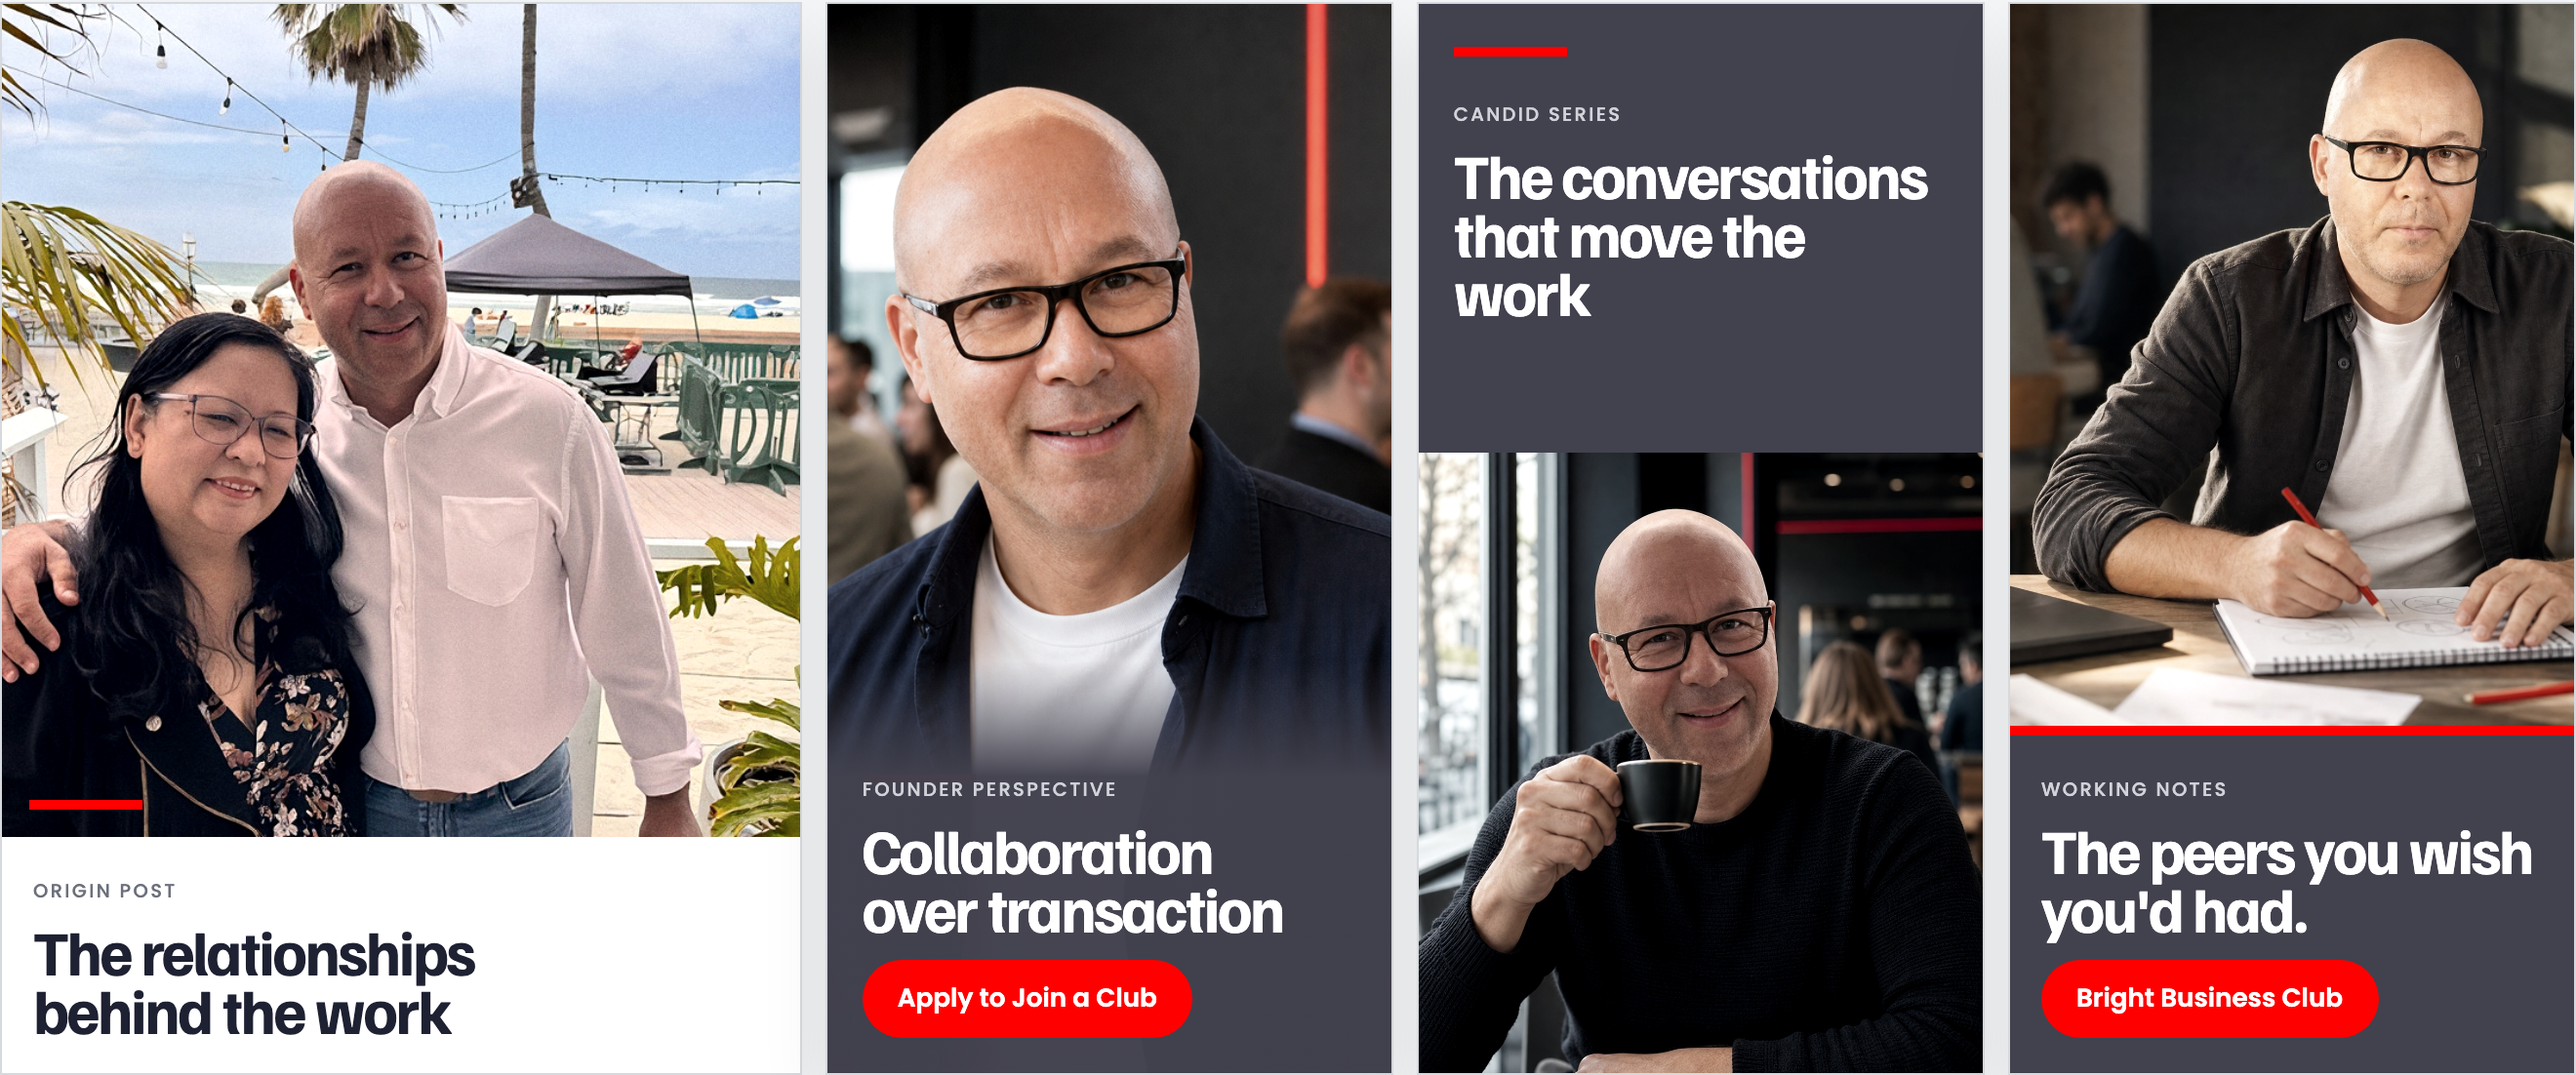
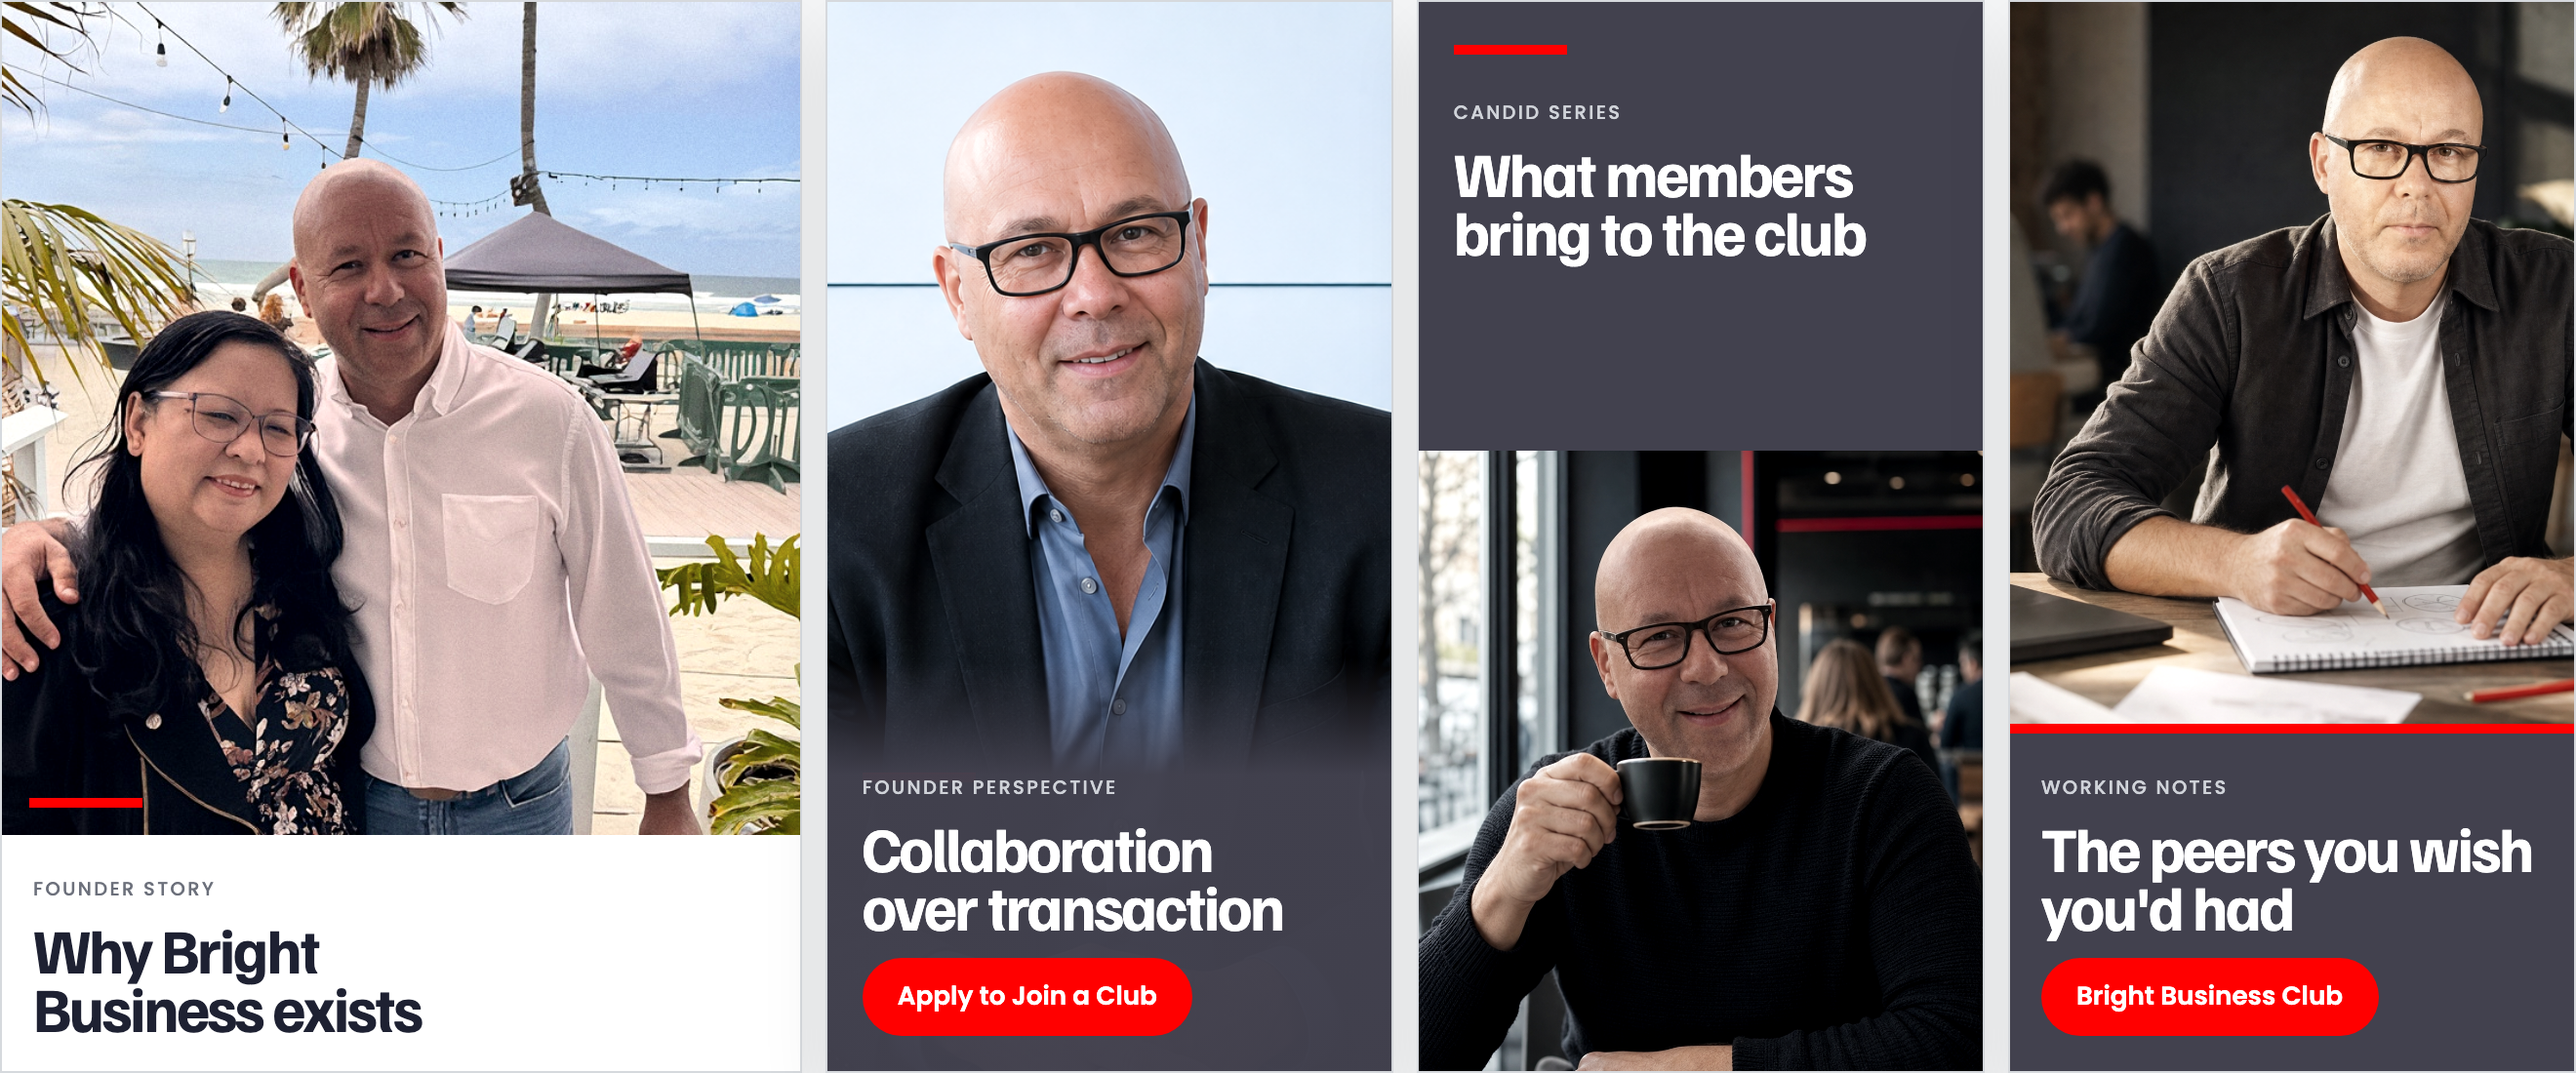
Replace generic Bright Business reveal copy

diff --git a/bright-business/index.html b/bright-business/index.html
@@ -1091,7 +1091,8 @@
     }
     .campaign-li .li-cover-right {
       background-position: center 38%;
-      filter: saturate(.55) contrast(1.08);
+      background-color: rgba(182, 201, 219, .24);
+      background-blend-mode: luminosity;
     }
     .campaign-li .li-photo-slot img { object-position: 36% 50%; }
     .campaign-li .li-feat .sq > img { object-position: 36% 50%; }
@@ -1875,7 +1876,6 @@
       padding: 0;
       overflow: hidden;
       border: 1px solid rgba(30, 33, 50, .16);
-      border-top: 6px solid var(--red);
       border-radius: 10px;
       background: var(--page);
       color: var(--heading);
@@ -2045,8 +2045,8 @@
       </span>
       <div class="inspiration-note-copy" tabindex="-1">
         <button class="inspiration-note-close" type="button" aria-label="Close this note">×</button>
-        <h2 id="inspiration-note-title">Image inspiration only</h2>
-        <p class="inspiration-note-body" id="inspiration-note-body">These images show the creative direction. Final photography can enhance real photos or recreate the strongest ideas with a photographer. This is brand inspiration, not an AI face service.</p>
+        <h2 id="inspiration-note-title">Photography direction</h2>
+        <p class="inspiration-note-body" id="inspiration-note-body">These images are creative references. Final production can enhance your real photos or give a photographer a clear brief for recreating the strongest ideas.</p>
         <button class="inspiration-note-enter" type="button">View the reveal</button>
       </div>
     </div>
@@ -2211,8 +2211,8 @@
         <div class="campaign-hero-copy">
           <p class="kicker reveal">Creative Direction</p>
           <h2 class="statement reveal delay">The club, in the world.</h2>
-          <p class="body reveal delay">Florin is the origin. Bright Business is the platform. Together they show up with the authority, warmth, and consistency of a world-class founder brand.</p>
-          <p class="campaign-principle reveal delay">Charcoal carries authority. Red moves people to join.</p>
+          <p class="body reveal delay">Florin gives the club a face and a point of view. Bright Business turns that into a platform people can join.</p>
+          <p class="campaign-principle reveal delay">Charcoal holds the structure. Red is reserved for joining.</p>
         </div>
       </div>
     </section>
@@ -2235,7 +2235,7 @@
             </div>
             <div class="identity-message">
               <h3>The peers you wish you'd had.</h3>
-              <p>Familjen Grotesk carries the decisive voice. Poppins carries the detail. Charcoal and ice build authority. Red signals the moment to act.</p>
+              <p>Familjen Grotesk leads. Poppins supports. Charcoal and ice structure the system. Red is reserved for joining.</p>
             </div>
             <div class="identity-join">
               <span>A peer community that accelerates ethical growth.</span>
@@ -2251,34 +2251,34 @@
         <div class="system-head">
           <div>
             <p class="kicker reveal">Founder image system</p>
-            <h2 class="statement reveal delay">A founder with range</h2>
+            <h2 class="statement reveal delay">One image system across six roles</h2>
           </div>
-          <p class="body reveal delay">One visual world now covers authority, warmth, expertise, community, and the quieter moments behind the work. Each image has a job, not just a look.</p>
+          <p class="body reveal delay">Portrait, press, workshop, host, social, and editorial images give each channel the right view of Florin without changing the visual language.</p>
         </div>
         <div class="founder-photo-grid reveal delay">
           <figure class="founder-photo-card lead">
             <img src="media/approved/seated-founder.png" alt="Florin Diumea seated in a founder portrait">
-            <figcaption><strong>Founder authority</strong><span>Profile, keynote, executive biography</span></figcaption>
+            <figcaption><strong>Executive portrait</strong><span>Profile, keynote, biography</span></figcaption>
           </figure>
           <figure class="founder-photo-card">
             <img src="media/approved/press-portrait.png" alt="Florin Diumea in a press portrait">
-            <figcaption><strong>Press ready</strong><span>Editorial, PR, speaker assets</span></figcaption>
+            <figcaption><strong>Press portrait</strong><span>Articles, interviews, speaker assets</span></figcaption>
           </figure>
           <figure class="founder-photo-card wide">
             <img src="media/approved/workshop-breakout.png" alt="Florin Diumea leading a workshop">
-            <figcaption><strong>Expert in action</strong><span>Workshops, teaching, member value</span></figcaption>
+            <figcaption><strong>Workshop</strong><span>Teaching and member work</span></figcaption>
           </figure>
           <figure class="founder-photo-card">
             <img src="media/approved/networking-host.png" alt="Florin Diumea welcoming people at an event">
-            <figcaption><strong>Club host</strong><span>Warm, present, connected</span></figcaption>
+            <figcaption><strong>Host</strong><span>Welcoming members and guests</span></figcaption>
           </figure>
           <figure class="founder-photo-card">
             <img src="media/approved/social-candid.png" alt="A candid portrait of Florin Diumea at a social event">
-            <figcaption><strong>Social presence</strong><span>Direct, close, human</span></figcaption>
+            <figcaption><strong>Candid</strong><span>Social and behind the scenes</span></figcaption>
           </figure>
           <figure class="founder-photo-card">
             <img src="media/approved/artistic-reflection.png" alt="An editorial profile portrait of Florin Diumea">
-            <figcaption><strong>Editorial depth</strong><span>Features, essays, campaign moments</span></figcaption>
+            <figcaption><strong>Editorial</strong><span>Essays, features, campaigns</span></figcaption>
           </figure>
         </div>
       </div>
@@ -2287,7 +2287,7 @@
     <section class="scene li-scene campaign-li fixed-application-scene" data-chapter="brand">
       <div class="inner">
         <p class="kicker reveal">LinkedIn system</p>
-        <h2 class="statement reveal delay">A keynote reveal in profile</h2>
+        <h2 class="statement reveal delay">Florin Diumea on LinkedIn</h2>
         <figure class="fixed-application linkedin-application reveal delay">
           <img src="media/fixed/linkedin-profile.png" alt="LinkedIn profile concept for Florin Diumea and Bright Business Club">
         </figure>
@@ -2298,9 +2298,9 @@
         <div class="system-head">
           <div>
             <p class="kicker reveal">Social content system</p>
-            <h2 class="statement reveal delay">Authority with a pulse</h2>
+            <h2 class="statement reveal delay">Four repeatable social formats</h2>
           </div>
-          <p class="body reveal delay">Four formats create range across founder stories, perspective, candid moments, and working notes.</p>
+          <p class="body reveal delay">Founder stories, perspective, candid moments, and working notes give Florin a clear publishing rhythm.</p>
         </div>
         <figure class="fixed-application reveal delay">
           <img src="media/fixed/social-system.png" alt="Four fixed social media artwork formats for Bright Business Club">
@@ -2310,7 +2310,7 @@
     <section class="scene spotlight-scene fixed-application-scene" data-chapter="brand">
       <div class="inner">
         <p class="kicker reveal">Stage and video system</p>
-        <h2 class="statement reveal delay">Built for the spotlight</h2>
+        <h2 class="statement reveal delay">Speaker reel, one-sheet, and video</h2>
         <figure class="fixed-application reveal delay">
           <img src="media/fixed/stage-video-system.png" alt="Fixed stage, speaker, and video artwork system for Florin Diumea">
         </figure>
@@ -2320,7 +2320,7 @@
     <section class="scene press-scene fixed-application-scene" data-chapter="brand">
       <div class="inner">
         <p class="kicker reveal">Press and PR system</p>
-        <h2 class="statement reveal delay">Ready for the next question</h2>
+        <h2 class="statement reveal delay">Articles, interviews, and press kit</h2>
         <figure class="fixed-application reveal delay">
           <img src="media/fixed/press-pr-system.png" alt="Fixed press article and press kit artwork for Florin Diumea and Bright Business Club">
         </figure>
@@ -2332,9 +2332,9 @@
         <div class="system-head">
           <div>
             <p class="kicker reveal">Community and event system</p>
-            <h2 class="statement reveal delay">The club comes alive through people</h2>
+            <h2 class="statement reveal delay">Show the work inside the club</h2>
           </div>
-          <p class="body reveal delay">Workshops, introductions, conversations, and club settings make the value visible.</p>
+          <p class="body reveal delay">Workshops, introductions, peer conversations, and club settings make the member experience visible.</p>
         </div>
         <figure class="fixed-application reveal delay">
           <img src="media/fixed/community-system.png" alt="Fixed community and event image system for Bright Business Club">
@@ -2346,9 +2346,9 @@
         <div class="system-head">
           <div>
             <p class="kicker reveal">Founder editorial system</p>
-            <h2 class="statement reveal delay">Always on, never overproduced</h2>
+            <h2 class="statement reveal delay">A publishing system between events</h2>
           </div>
-          <p class="body reveal delay">A thought-leader brand needs more than podium photographs. Reflection, working notes, and candid moments create a publishing rhythm that feels authoritative without feeling staged.</p>
+          <p class="body reveal delay">Working notes, reflections, and candid images let Florin stay visible without turning every post into a campaign.</p>
         </div>
         <figure class="fixed-application reveal delay">
           <img src="media/fixed/editorial-system.png" alt="Fixed editorial feature, working note, and candid artwork system for Florin Diumea">
@@ -2359,9 +2359,9 @@
     <section class="scene finale-scene" data-chapter="brand">
       <div class="inner">
         <div class="finale-copy">
-          <p class="kicker reveal">Bright Business in the world</p>
-          <h2 class="reveal delay">Ready for the spotlight</h2>
-          <p class="reveal delay">The strategy is intact. The identity now extends across a founder profile, social, stage, press, workshops, and the club itself. Every touchpoint points back to a peer community that accelerates ethical growth.</p>
+          <p class="kicker reveal">The complete system</p>
+          <h2 class="reveal delay">The club, in the world.</h2>
+          <p class="reveal delay">LinkedIn, social, video, speaking, press, workshops, and community now share one visual system. Florin is the origin. The club is what people join.</p>
           <div class="finale-apps reveal delay"><span>LinkedIn</span><span>Social</span><span>Video</span><span>Speaker</span><span>Press</span><span>Workshops</span><span>Community</span></div>
         </div>
         <div class="finale-media">
